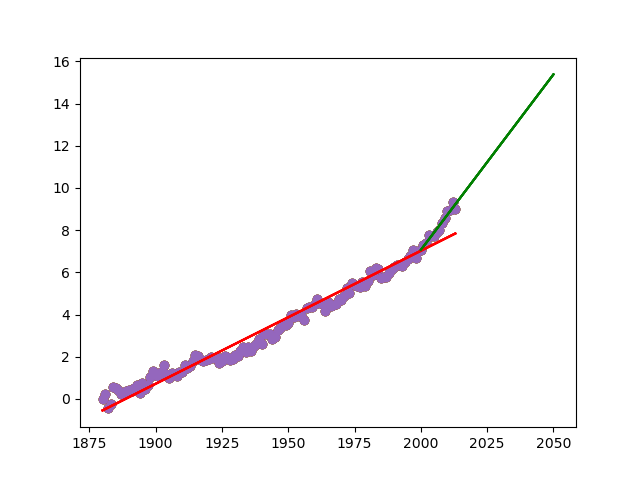
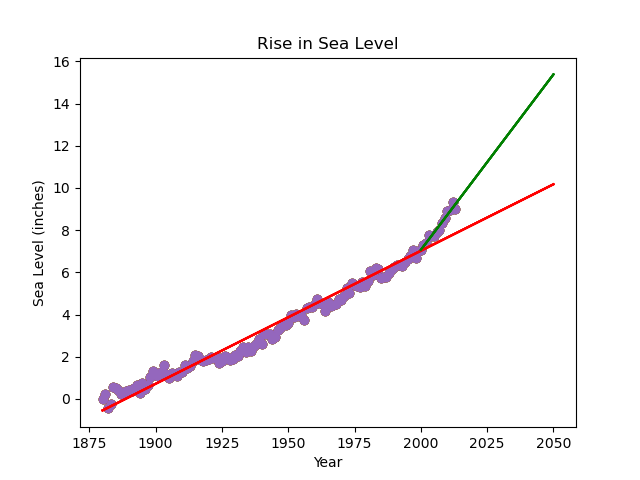
finish

diff --git a/sea_level_predictor.py b/sea_level_predictor.py
@@ -14,9 +14,9 @@ def draw_plot():
     lr = linregress(x, y)
     
     xf = pd.Series(range(1880, 2051))
-    yf = linregress(x, df['CSIRO Adjusted Sea Level']).intercept + linregress(x, df['CSIRO Adjusted Sea Level']).slope*xf
+    yf = linregress(x, y).intercept + linregress(x, y).slope*xf
 
-    plt.plot(x, lr.intercept + lr.slope*x, 'r', label='fitted line')
+    plt.plot(xf, lr.intercept + lr.slope*xf, 'r', label='fitted line')
     
     # Create second line of best fit
     df2 = df[df['Year'] >= 2000]
@@ -30,6 +30,11 @@ def draw_plot():
     plt.plot(x2, y2, 'g', label='fitted line 2000-2050')
     
     # Add labels and title
+    plt.xlabel('Year')
+    plt.ylabel('Sea Level (inches)')
+    plt.title('Rise in Sea Level')
+
+    
 
     
     # Save plot and return data for testing (DO NOT MODIFY)
